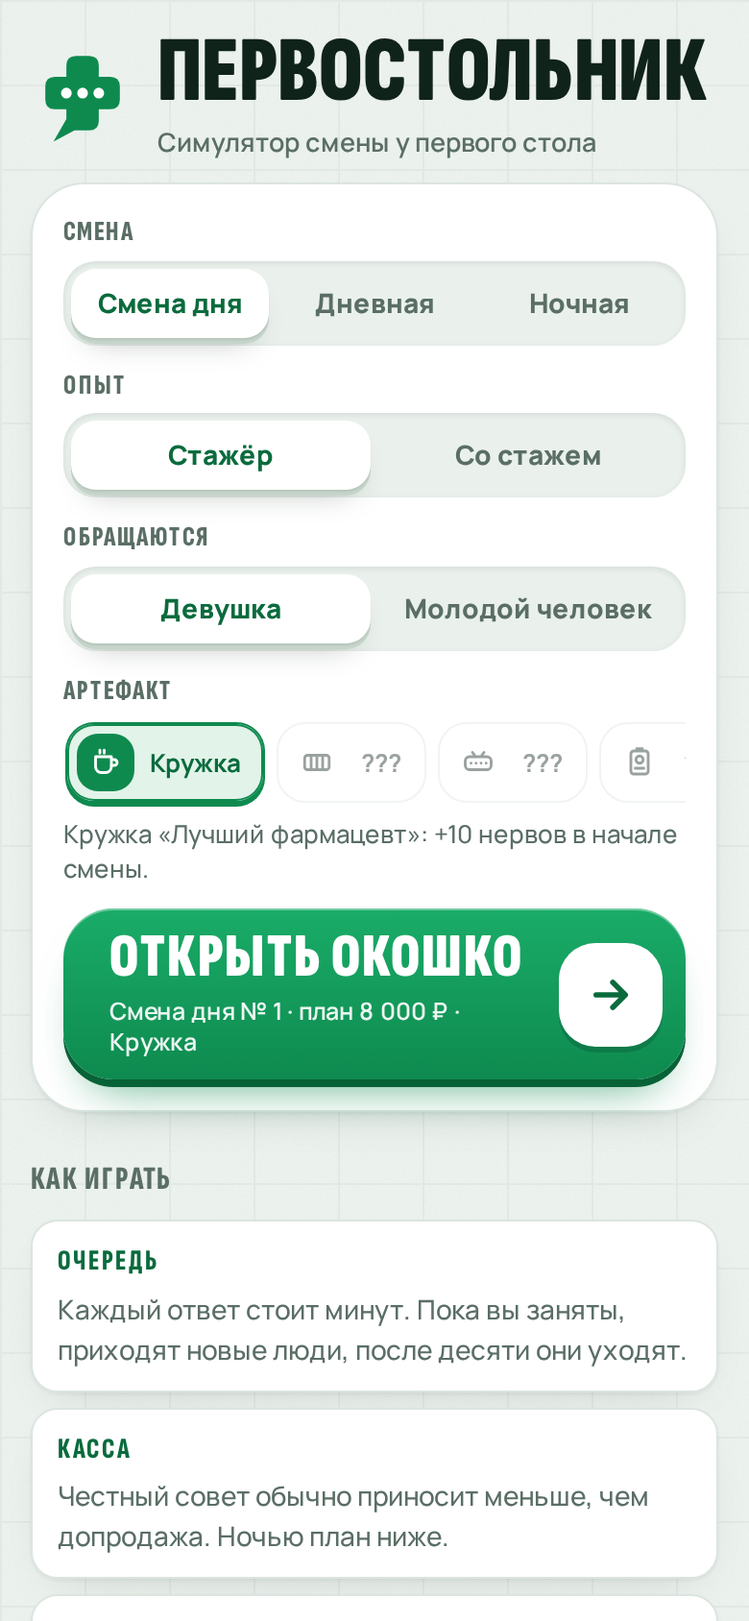
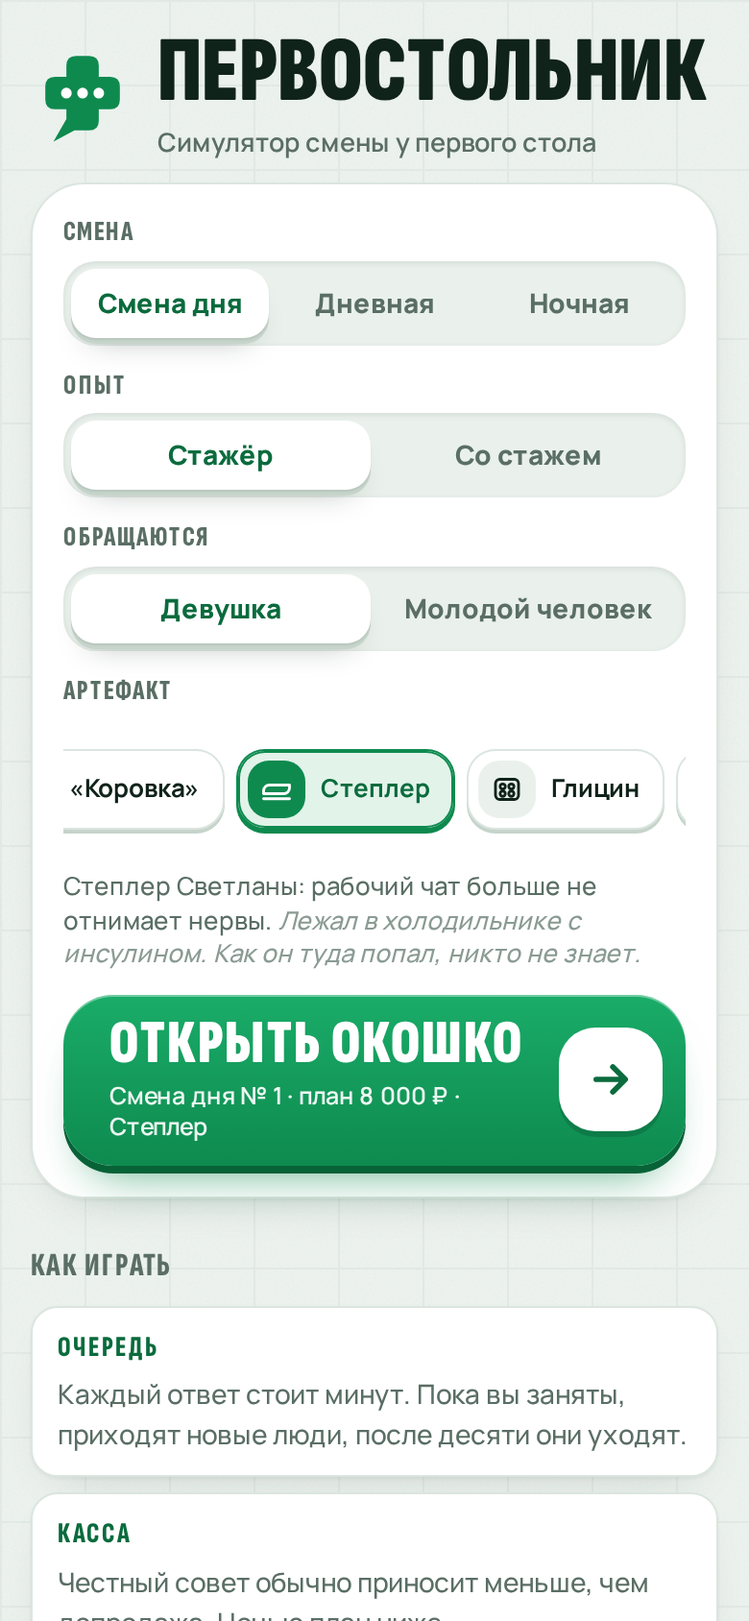
Артефакты: 21 предмет, находки во время смены
Новые предметы открываются после конкретных ситуаций и дают эффекты
на ходу: «Коровка» от Валентины Петровны, степлер Светланы, касса «Ока»,
портрет заведующей, табличка «Технический перерыв» и другие. Стартовый
экран показывает только найденные предметы, остальные в коллекции.
Исправлено дрожание кнопок при наведении курсора на нижний край.

Claude-Session: https://claude.ai/code/session_014crQB7AYk73cuvScQ2uEae

Changed region(s): [[0.0308, 0.4313, 0.9538, 1.0], [0.8923, 0.7701, 0.9231, 0.8009]]

diff --git a/index.html b/index.html
@@ -485,6 +485,28 @@ body::before{content:""; position:fixed; inset:0; pointer-events:none; z-index:0
 .art:disabled{box-shadow:none}
 .art:disabled svg{background:transparent}
 
+
+/* Артефакты: лор, найденные предметы, лупа */
+.ci i{font-size:12.5px; color:var(--dim); font-style:italic; line-height:1.35}
+.note i{color:var(--dim)}
+.arts{align-items:center}
+.art{white-space:nowrap}
+.art.more{border-style:dashed; color:var(--muted); background:transparent; box-shadow:none}
+.art.more svg{background:transparent}
+.loupe{margin-left:auto; font:700 11px/1 var(--f-body); color:#2f64d8; background:#e8effd; padding:4px 7px; border-radius:999px; align-self:center; white-space:nowrap}
+.found{display:grid; gap:8px; width:100%; max-width:560px; margin:0 auto; text-align:left}
+.found-i{display:flex; gap:12px; align-items:flex-start; padding:12px 14px; border-radius:18px; background:var(--yellow-soft); border:1px dashed var(--yellow)}
+.found-i svg{width:42px; height:42px; padding:9px; border-radius:14px; background:var(--card); stroke:var(--green-dark); fill:none; stroke-width:1.8; stroke-linecap:round; stroke-linejoin:round; flex:none; box-sizing:border-box; box-shadow:0 2px 0 var(--key-line)}
+.found-i b{display:block; font:800 21px/1.05 var(--f-display); letter-spacing:.01em}
+.found-i span{display:block; font-size:14px; font-weight:500; margin-top:4px}
+.found-i em{display:block; font:700 12.5px/1.35 var(--f-body); font-style:normal; color:var(--green-dark); margin-top:4px}
+
+
+/* Кнопка приподнимается при наведении, но её «зона наведения» остаётся на месте — без дрожания у края */
+.choice,.opt,.pack,.tg,.btn,.art,.hintbtn{position:relative}
+.choice::after,.opt::after,.pack::after,.tg::after,.btn::after,.art::after,.hintbtn::after{content:""; position:absolute; inset:-1px; border-radius:inherit}
+.choice:hover::after,.opt:hover::after,.pack:hover::after,.tg:hover::after,.btn:hover::after,.art:hover::after,.hintbtn:hover::after{transform:translateY(2px)}
+
 @media (prefers-reduced-motion: reduce){
   *,*::before,*::after{animation:none !important; transition:none !important}
 }
@@ -1308,20 +1330,47 @@ const ICON = {
   calc:'<svg viewBox="0 0 24 24" aria-hidden="true"><rect x="5" y="3" width="14" height="18" rx="2"/><path d="M8 7h8"/><path d="M8.5 12h.01M12 12h.01M15.5 12h.01M8.5 16h.01M12 16h.01M15.5 16h.01"/></svg>',
   scanner2:'<svg viewBox="0 0 24 24" aria-hidden="true"><path d="M4 8V5h3M17 5h3v3M20 16v3h-3M7 19H4v-3"/><path d="M4 12h16"/></svg>',
   thermos:'<svg viewBox="0 0 24 24" aria-hidden="true"><rect x="8" y="6" width="8" height="15" rx="2"/><path d="M9 3h6v3H9z"/><path d="M8 11h8"/></svg>',
-  mashk:'<svg viewBox="0 0 24 24" aria-hidden="true"><path d="M5 4.5A1.5 1.5 0 0 1 6.5 3H19v15H6.5A1.5 1.5 0 0 0 5 19.5z"/><path d="M5 19.5A1.5 1.5 0 0 0 6.5 21H19"/><path d="M9 7.5h6M9 11h4"/></svg>'
+  mashk:'<svg viewBox="0 0 24 24" aria-hidden="true"><path d="M5 4.5A1.5 1.5 0 0 1 6.5 3H19v15H6.5A1.5 1.5 0 0 0 5 19.5z"/><path d="M5 19.5A1.5 1.5 0 0 0 6.5 21H19"/><path d="M9 7.5h6M9 11h4"/></svg>',
+  korovka:'<svg viewBox="0 0 24 24" aria-hidden="true"><path d="M8 9L4 6v12l4-3"/><path d="M16 9l4-3v12l-4-3"/><rect x="8" y="8" width="8" height="8" rx="2"/></svg>',
+  stapler:'<svg viewBox="0 0 24 24" aria-hidden="true"><path d="M3 15h14a4 4 0 0 0 4-4V9H7a4 4 0 0 0-4 4z"/><path d="M3 18.5h18"/></svg>',
+  portrait:'<svg viewBox="0 0 24 24" aria-hidden="true"><rect x="5" y="3" width="14" height="18" rx="1.5"/><circle cx="12" cy="10" r="2.6"/><path d="M8 17c.8-2.2 2.2-3.2 4-3.2s3.2 1 4 3.2"/></svg>',
+  glycine:'<svg viewBox="0 0 24 24" aria-hidden="true"><rect x="4" y="5" width="16" height="14" rx="3"/><circle cx="9" cy="10" r="1.8"/><circle cx="15" cy="10" r="1.8"/><circle cx="9" cy="15" r="1.8"/><circle cx="15" cy="15" r="1.8"/></svg>',
+  sabo:'<svg viewBox="0 0 24 24" aria-hidden="true"><path d="M3 16c0-3 2-5 5-6l3-3h4c3 0 6 3 6 7v2H3z"/><path d="M3 19h18"/><path d="M13 10.5h.01M16 10.5h.01"/></svg>',
+  sign:'<svg viewBox="0 0 24 24" aria-hidden="true"><path d="M9 7l3-4 3 4"/><rect x="4" y="7" width="16" height="10" rx="1.5"/><path d="M8 12h8"/></svg>',
+  bahily:'<svg viewBox="0 0 24 24" aria-hidden="true"><path d="M4 15c0-4 3-8 8-8 3 0 4 2 5 4l3 1v4H4z"/><path d="M4 18.5h16"/><path d="M8 7.5c1 1 3 1 4 0"/></svg>',
+  oka:'<svg viewBox="0 0 24 24" aria-hidden="true"><rect x="4" y="11" width="16" height="9" rx="1.5"/><path d="M7 11V5h10v6"/><path d="M9 8h6"/><path d="M8 15h.01M12 15h.01M16 15h.01"/></svg>',
+  loupe:'<svg viewBox="0 0 24 24" aria-hidden="true"><circle cx="10" cy="10" r="6"/><path d="M14.5 14.5L20 20"/></svg>',
+  headset:'<svg viewBox="0 0 24 24" aria-hidden="true"><path d="M4 14v-2a8 8 0 0 1 16 0v2"/><rect x="3" y="13" width="4" height="6" rx="1.5"/><rect x="17" y="13" width="4" height="6" rx="1.5"/><path d="M19 19c0 1.5-2 2-5 2"/></svg>',
+  nmo:'<svg viewBox="0 0 24 24" aria-hidden="true"><rect x="3" y="4" width="18" height="13" rx="1.5"/><path d="M7 8h10M7 11h5"/><circle cx="16" cy="15" r="2.8"/><path d="M14.6 17.5L14 21.5l2-1 2 1-.6-4"/></svg>',
+  ficus:'<svg viewBox="0 0 24 24" aria-hidden="true"><path d="M8 21h8l-1-6H9z"/><path d="M12 15V9"/><path d="M12 11c-3 0-5-2-5-5 3 0 5 2 5 5z"/><path d="M12 9c0-3 2-5 5-5 0 3-2 5-5 5z"/></svg>',
+  lock:'<svg viewBox="0 0 24 24" aria-hidden="true"><rect x="5" y="11" width="14" height="10" rx="2"/><path d="M8 11V8a4 4 0 0 1 8 0v3"/></svg>'
 };
+const has = (m, id) => m.arts.indexOf(id) >= 0;
 const ARTS = [
-  {id:'mug', name:'Кружка «Лучший фармацевт»', short:'Кружка', desc:'+10 нервов в начале смены.', how:'Есть с самого начала.', ok:m => true},
-  {id:'hematogen', name:'Гематоген в кармане', short:'Гематоген', desc:'Обед и ночной перекус дают на 10 нервов больше.', how:'Сыграйте одну смену.', ok:m => m.shifts >= 1},
-  {id:'mat', name:'Ортопедический коврик', short:'Коврик', desc:'Очередь давит на нервы вдвое слабее.', how:'Сыграйте две смены.', ok:m => m.shifts >= 2},
-  {id:'oldbadge', name:'Старый бейдж «Стажёр»', short:'Бейдж', desc:'Первую потерю доверия за смену покупатели прощают.', how:'Встретьте 10 типажей из бестиария.', ok:m => m.seen >= 10},
-  {id:'pen', name:'Ручка медпреда', short:'Ручка', desc:'+4 секунды на почерк врача.', how:'Значок «Каллиграф» или 4 смены.', ok:m => m.badges.indexOf('calligraph') >= 0 || m.shifts >= 4},
-  {id:'calc', name:'Калькулятор с большими кнопками', short:'Калькулятор', desc:'Цена за штуку видна в аналогах даже в режиме «Со стажем».', how:'Значок «Экономист» или 5 смен.', ok:m => m.badges.indexOf('economist') >= 0 || m.shifts >= 5},
-  {id:'scanner2', name:'Второй сканер', short:'Сканер', desc:'+1 секунда на каждого покупателя в час пик.', how:'Значок «Руки-молнии» или 6 смен.', ok:m => m.badges.indexOf('lightning') >= 0 || m.shifts >= 6},
-  {id:'thermos', name:'Термос с чаем', short:'Термос', desc:'Ночью нервы тратятся на треть медленнее.', how:'Значок «Сова»: закройте ночную смену.', ok:m => m.badges.indexOf('owl') >= 0},
-  {id:'mashk', name:'Справочник Машковского', short:'Машковский', desc:'Один раз за смену подсказывает ответ по правилам.', how:'Значок «Эксперт рецептуры» или 8 смен.', ok:m => m.badges.indexOf('expert') >= 0 || m.shifts >= 8}
+  {id:'mug', name:'Кружка «Лучший фармацевт»', short:'Кружка', desc:'+10 нервов в начале смены.', lore:'Подарок коллектива на 8 Марта. У всех такая же.', how:'Есть с самого начала.', ok:m => true},
+  {id:'hematogen', name:'Гематоген в кармане', short:'Гематоген', desc:'Обед и ночной перекус дают на 10 нервов больше.', lore:'Обед, ужин и стратегический запас. Срок годности проверен лично.', how:'Сыграйте одну смену.', ok:m => m.shifts >= 1},
+  {id:'mat', name:'Ортопедический коврик', short:'Коврик', desc:'Очередь давит на нервы вдвое слабее.', lore:'Куплен за свои. Лучшая инвестиция за пять лет стажа.', how:'Сыграйте две смены.', ok:m => m.shifts >= 2},
+  {id:'korovka', name:'Конфета «Коровка» от Валентины Петровны', short:'«Коровка»', desc:'+2 доверия за каждого пожилого покупателя.', lore:'Хранится в кармане халата с понедельника. Съесть нельзя, выбросить тоже.', how:'Правильно помогите Валентине Петровне с «белыми круглыми».', found:'Валентина Петровна оставила вам конфету «Коровка». Теперь пенсионеры доверяют вам чуть больше.', ok:m => has(m, 'korovka')},
+  {id:'stapler', name:'Степлер Светланы', short:'Степлер', desc:'Рабочий чат больше не отнимает нервы.', lore:'Лежал в холодильнике с инсулином. Как он туда попал, никто не знает.', how:'Доработайте смену до вопроса Светланы про степлер.', found:'Вы нашли степлер Светланы. Он лежал в холодильнике с инсулином.', ok:m => has(m, 'stapler')},
+  {id:'glycine', name:'Глицин в кармане', short:'Глицин', desc:'Кажется, что нервы тратятся меньше. На самом деле нет.', lore:'Доказательная база скромная, но вы в него верите.', how:'Встретьте студента с сопроматом.', found:'Студент Тимур забыл на кассе пачку глицина. Теперь она ваша.', ok:m => has(m, 'glycine')},
+  {id:'oka', name:'Касса «Ока» из подсобки', short:'«Ока»', desc:'Не зависает на ОФД и всегда даёт сдачу: касса и мелочь больше не бьют по нервам.', lore:'Старше половины коллектива. ОФД у неё нет, поэтому зависать нечему.', how:'Переживите зависание кассы на ОФД.', found:'Пока касса висела на ОФД, из подсобки достали старую «Оку». Работает.', ok:m => has(m, 'oka')},
+  {id:'headset', name:'Гарнитура', short:'Гарнитура', desc:'Звонки «а у вас есть…?» не тратят нервы и добавляют доверия.', lore:'Одно ухо для покупателя, второе для телефона. Голова одна.', how:'Ответьте на звонок «а у вас есть…?».', found:'После очередного звонка «а у вас есть…?» сеть выдала вам гарнитуру.', ok:m => has(m, 'headset')},
+  {id:'portrait', name:'Портрет заведующей в рамке', short:'Портрет', desc:'Риск от нарушений на треть ниже, но каждое спорное решение стоит 2 нерва.', lore:'Висит над кассой. Взгляд достаёт из любого угла аптеки.', how:'Встретьте заведующую с планом по БАДам.', found:'Тамара Викторовна подарила коллективу свой портрет в рамке. Повесили над кассой.', ok:m => has(m, 'portrait')},
+  {id:'sign', name:'Табличка «Технический перерыв 15 минут»', short:'Табличка', desc:'Один раз за смену: очередь −4, нервы +6, доверие −3.', lore:'Висит на окошке. Очередь делает вид, что её не видит.', how:'Доведите очередь до восьми человек.', found:'В подсобке нашлась табличка «Технический перерыв». Очередь пока не догадывается.', ok:m => has(m, 'sign')},
+  {id:'oldbadge', name:'Старый бейдж «Стажёр»', short:'Бейдж', desc:'Первую потерю доверия за смену покупатели прощают.', lore:'Фамилия стёрлась, но стажёров всё равно жалеют.', how:'Встретьте 10 типажей из бестиария.', ok:m => m.seen >= 10},
+  {id:'loupe', name:'Лупа с витрины', short:'Лупа', desc:'Рецепт подсказывает, сколько дней прошло с выписки, а почерк врача читается на букву лучше.', lore:'Продавалась за 190 ₽. Списана как «витринный образец».', how:'Проведите экспертизу рецепта без ошибки.', found:'Вы забрали лупу с витрины. Теперь даты в рецептах видно издалека.', ok:m => has(m, 'loupe') || m.badges.indexOf('expert') >= 0},
+  {id:'bahily', name:'Счастливые бахилы', short:'Бахилы', desc:'Инспектор приходит на 40 % реже.', lore:'Лежат на верхней полке с 2019 года. Проверка ни разу не приходила. Совпадение?', how:'Переживите визит инспектора.', found:'Инспектор ушёл, а его бахилы остались. Теперь это талисман.', ok:m => has(m, 'bahily')},
+  {id:'sabo', name:'Сабо с дырочками', short:'Сабо', desc:'+1 нерв за каждый шаг смены: ноги не гудят.', lore:'Двенадцать часов на ногах. Сабо знают, каково это.', how:'Закройте ночную смену или согласитесь на вторую подряд.', found:'Вы наконец купили сабо с дырочками. Ноги говорят спасибо.', ok:m => has(m, 'sabo')},
+  {id:'nmo', name:'Сертификат на 144 балла НМО', short:'Сертификат', desc:'+5 доверия в начале смены, а в режиме «Со стажем» справки открыты.', lore:'Набран за двадцать вебинаров и одну бессонную ночь перед аккредитацией.', how:'Закройте смену без единого нарушения.', found:'Смена без нарушений, и баллы НМО сложились в сертификат.', ok:m => has(m, 'nmo')},
+  {id:'pen', name:'Ручка медпреда', short:'Ручка', desc:'+4 секунды на почерк врача.', lore:'С логотипом препарата, которого давно нет в продаже. Пишет лучше всех.', how:'Значок «Каллиграф» или 4 смены.', ok:m => m.badges.indexOf('calligraph') >= 0 || m.shifts >= 4},
+  {id:'calc', name:'Калькулятор с большими кнопками', short:'Калькулятор', desc:'Цена за штуку видна в аналогах даже в режиме «Со стажем».', lore:'Кнопка «7» западает с 2018 года. Считаем без семёрок.', how:'Значок «Экономист» или 5 смен.', ok:m => m.badges.indexOf('economist') >= 0 || m.shifts >= 5},
+  {id:'ficus', name:'Фикус с первого стола', short:'Фикус', desc:'Каждые три шага +3 нерва: он просто рядом.', lore:'Пережил три ремонта и пять заведующих. Поливает только ночная смена.', how:'Отработайте пять смен.', ok:m => m.shifts >= 5},
+  {id:'scanner2', name:'Второй сканер', short:'Сканер', desc:'+1 секунда на каждого покупателя в час пик.', lore:'Пищит на полтона ниже первого. Вы различаете их на слух.', how:'Значок «Руки-молнии» или 6 смен.', ok:m => m.badges.indexOf('lightning') >= 0 || m.shifts >= 6},
+  {id:'thermos', name:'Термос с чаем', short:'Термос', desc:'Ночью нервы тратятся на треть медленнее.', lore:'Чай с чабрецом. То ли от бабушки, то ли от благодарной покупательницы.', how:'Значок «Сова»: закройте ночную смену.', ok:m => m.badges.indexOf('owl') >= 0},
+  {id:'mashk', name:'Справочник Машковского', short:'Машковский', desc:'Один раз за смену подсказывает ответ по правилам.', lore:'Издание 2005 года. Сорок закладок, и ни одной случайной.', how:'Значок «Эксперт рецептуры» или 8 смен.', ok:m => m.badges.indexOf('expert') >= 0 || m.shifts >= 8}
 ];
-function metaNow(){ return {shifts:(store('pervostolnik3-meta', {shifts:0}).shifts || 0), badges:store('pervostolnik3-badges', []), seen:Object.keys(store('pervostolnik3-bestiary', {})).length}; }
+const SENIORS = ['davlenie','refund','coins','tv','insulin','reader','biography','discount','soundalike','expired','m-script'];
+function metaNow(){ return {shifts:(store('pervostolnik3-meta', {shifts:0}).shifts || 0), badges:store('pervostolnik3-badges', []), seen:Object.keys(store('pervostolnik3-bestiary', {})).length, arts:store('pervostolnik3-arts', [])}; }
 function artOk(id, meta){ const a = ARTS.find(x => x.id === id); return !!a && a.ok(meta || metaNow()); }
 function artOf(id){ return ARTS.find(x => x.id === id) || ARTS[0]; }
 function lamps(){
@@ -1333,7 +1382,7 @@ function lamps(){
     if (id === 'm-accept') st.mdlp = 'warn';
     if (id === 'fridge') st.temp = 'bad';
   }
-  return '<span class="lamp ' + st.ofd + '">ОФД</span><span class="lamp ' + st.mdlp + '">МДЛП</span><span class="lamp ' + st.temp + '">' + (st.temp === 'bad' ? '+9°' : '+5°') + '</span>';
+  return '<span class="lamp ' + (S && S.art === 'oka' ? 'ok' : st.ofd) + '">' + (S && S.art === 'oka' ? 'ОКА' : 'ОФД') + '</span><span class="lamp ' + st.mdlp + '">МДЛП</span><span class="lamp ' + st.temp + '">' + (st.temp === 'bad' ? '+9°' : '+5°') + '</span>';
 }
 function qrBlock(){
   const n = 21, c = 3;
@@ -1471,7 +1520,11 @@ const CHAT = [
   ['ТВ','Тамара Викторовна','{G}, по итогам месяца мы 47-е из 48 аптек. Спасибо 48-й'],
   ['СВ','Светлана','Почему принтер печатает только половину чека? Вторая половина в отпуске?'],
   ['ТВ','Тамара Викторовна','Планограмма обновилась. Гематоген теперь на уровне глаз ребёнка'],
-  ['СВ','Светлана','Я на пять минут в подсобку, морально подготовиться к вечеру']
+  ['СВ','Светлана','Я на пять минут в подсобку, морально подготовиться к вечеру'],
+  ['ТВ','Тамара Викторовна','Кто оставил глицин на кассе? Это не для покупателей, это моё'],
+  ['ТВ','Тамара Викторовна','Медпред принёс ручки. Берём по одной, это не гематоген'],
+  ['ТВ','Тамара Викторовна','{G}, завтра фото на доску почёта. Халаты погладить, фикус полить'],
+  ['СВ','Светлана','Кто-нибудь видел мою кружку «Лучший фармацевт»? А, у всех такая']
 ];
 
 /* ---------- Бестиарий и значки ---------- */
@@ -1526,9 +1579,10 @@ function newShift(kind){
     queue:night ? 1 : START.queue, qAcc:0, left:0, maxQueue:night ? 1 : START.queue,
     fines:0, log:[], inspected:false, over:null, last:null, saved:false,
     addrCount:0, met:[], earned:[], pay:[], jz:{}, stats:{hand:[0,0], rx:[0,0], analog:[0,0], rush:null, accept:null},
-    newMet:[], newBadges:[], newArts:[], art:artOk(PREFS.art) ? PREFS.art : 'mug', hints:1, hintAt:-1, forgiven:false
+    newMet:[], newBadges:[], newArts:[], art:artOk(PREFS.art) ? PREFS.art : 'mug', hints:1, hintAt:-1, forgiven:false, signUsed:false, once:{}
   };
   if (S.art === 'mug') S.nerves = clamp(S.nerves + 10);
+  if (S.art === 'nmo') S.trust = clamp(S.trust + 5);
   S.pre = deck.map(id => isMini(id) ? initMini(id.slice(2)) : shuffle(CARDS[id].choices.map((_, i) => i)));
   RC = Math.random;
   enterStep();
@@ -1557,7 +1611,7 @@ function initMini(k){
   if (k === 'hand'){
     const set = pick(HAND);
     const ans = pick(set);
-    const words = scrawl(ans[0], md.keep, 'big');
+    const words = scrawl(ans[0], md.keep + (S && S.art === 'loupe' ? 1 : 0), 'big');
     return {k:k, ans:ans, opts:shuffle(set), html:'<span class="hand">Rp.: Tab.</span> ' + words, dose:scrawl(pick(['0,05','0,02','0,1','0,005']), 9, 'sm'), n:scrawl('D.t.d. N 30', 1, 'sm'), sig:scrawl('S. по 1 т. утром', 2, 'sm'), t0:0, T:md.handT + (S && S.art === 'pen' ? 4 : 0)};
   }
   if (k === 'rx'){
@@ -1642,9 +1696,29 @@ function finish(res){
   if (S.art === 'oldbadge' && dt < 0 && !S.forgiven){ S.forgiven = true; artNotes.push('Старый бейдж «Стажёр»: покупатель простил, доверие не упало (было бы ' + dt + ').'); dt = 0; }
   if (S.art === 'thermos' && S.time === 'night' && dn < 0){ const soft = Math.round(dn * 0.67); if (soft !== dn) artNotes.push('Термос с чаем: нервы ' + soft + ' вместо ' + dn + '.'); dn = soft; }
   if (S.art === 'hematogen' && (cur() === 'lunch' || cur() === 'nightsnack') && dn > 0){ dn += 10; artNotes.push('Гематоген в кармане: ещё +10 нервов.'); }
+  let dr = d.r || 0, dq = d.q || 0;
+  const id0 = cur(), q0 = res.q;
+  const once = key => { if (S.once[key]) return false; S.once[key] = true; return true; };
+  if (S.art === 'portrait'){
+    if (dr > 0){ const lo = Math.round(dr * 0.67); if (lo !== dr) artNotes.push('Портрет заведующей: риск +' + lo + ' вместо +' + dr + '.'); dr = lo; }
+    if (q0 === 'meh'){ dn -= 2; artNotes.push('Портрет заведующей смотрит с укором: −2 нерва за спорное решение.'); }
+  }
+  if (S.art === 'korovka' && SENIORS.indexOf(id0) >= 0){ dt += 2; artNotes.push('«Коровка» от Валентины Петровны: пожилые покупатели доверяют вам чуть больше, +2.'); }
+  if (S.art === 'sabo'){ dn += 1; if (once('sabo')) artNotes.push('Сабо с дырочками: +1 нерв за каждый шаг, ноги не гудят.'); }
+  if (S.art === 'ficus' && S.step % 3 === 2){ dn += 3; artNotes.push('Фикус с первого стола: +3 нерва. Он просто рядом.'); }
+  if (S.art === 'headset' && id0 === 'phone'){ if (dn < 0) dn = 0; dt += 3; artNotes.push('Гарнитура: звонок не стоил нервов, доверие +3.'); }
+  if (S.art === 'oka'){
+    if (id0 === 'queue'){ dq -= 2; dn += 4; artNotes.push('Касса «Ока» не зависает: очередь −2, нервы +4.'); }
+    if ((id0 === 'fivethousand' || id0 === 'coins' || id0 === 'change') && dn < 0){ dn = 0; artNotes.push('В «Оке» всегда есть мелочь: нервы не пострадали.'); }
+  }
+  if (S.chatAt[S.step]){
+    if (S.art === 'stapler'){ if (once('stapler')) artNotes.push('Степлер Светланы: рабочий чат больше не отнимает нервы.'); }
+    else { dn -= 2; artNotes.push('Сообщение в рабочем чате: −2 нерва.'); }
+  }
+  if (S.art === 'glycine' && dn < 0 && once('glycine')) artNotes.push('Глицин в кармане: кажется, стало легче. Показатели при этом не изменились.');
   S.trust = clamp(S.trust + dt);
   S.nerves = clamp(S.nerves + dn);
-  S.risk = clamp(S.risk + (d.r || 0));
+  S.risk = clamp(S.risk + dr);
   if (res.fine) S.fines += res.fine;
   if (res.fine === 0 && cur() === 'inspection') earn('survived');
   if (res.pay) S.pay.push(res.pay);
@@ -1653,7 +1727,7 @@ function finish(res){
   S.qAcc += (res.m || 0) / (S.time === 'night' ? 5 : 3);
   const arrived = Math.floor(S.qAcc);
   S.qAcc -= arrived;
-  S.queue = Math.max(0, S.queue + arrived - (res.served == null ? 1 : res.served) + (d.q || 0));
+  S.queue = Math.max(0, S.queue + arrived - (res.served == null ? 1 : res.served) + dq);
   let left = 0;
   if (S.queue > 10){ left = S.queue - 10; S.queue = 10; S.left += left; S.trust = clamp(S.trust - 2 * left); }
   if (S.queue >= 6){ const qp = S.queue - 5, eff = S.art === 'mat' ? Math.ceil(qp / 2) : qp; if (eff !== qp) artNotes.push('Ортопедический коврик: очередь отняла ' + eff + ' нервов вместо ' + qp + '.'); S.nerves = clamp(S.nerves - eff); }
@@ -1666,7 +1740,7 @@ function finish(res){
   else if (S.trust <= 0) S.over = 'trust';
   else if (S.nerves <= 0) S.over = 'nerves';
   if (!S.over && !S.inspected && cur() !== 'inspection' && S.risk >= 35){
-    const p = S.risk >= 80 ? 1 : (S.risk - 25) / 100;
+    const p = (S.risk >= 80 ? 1 : (S.risk - 25) / 100) * (S.art === 'bahily' ? 0.6 : 1);
     if (Math.random() < p){ S.inspected = true; S.deck.splice(S.step + 1, 0, 'inspection'); S.pre.splice(S.step + 1, 0, null); }
   }
   S.phase = 'result';
@@ -1849,6 +1923,9 @@ function rankOf(){
   if (S.cash >= plan * 1.3 && bad >= 4) return {title:'Совесть в минусе, касса в плюсе', text:'Выручка отличная, нарушений хватит на отдельную проверку. Региональный менеджер вас обожает, юрист сети боится.'};
   if (planOk && S.trust < 45) return {title:'Машина допродаж', text:'Региональный менеджер ставит вас в пример. Покупатели ставят одну звезду. Все при деле.'};
   if (S.left >= 5) return {title:'Хранитель очереди', text:'Консультации образцовые, но ' + S.left + ' ' + plural(S.left, ['человек','человека','человек']) + ' ушли, не дождавшись. Каждого вы бы вылечили, если бы успели.'};
+  const st = S.stats;
+  if (st.hand[1] && st.rx[1] && st.analog[1] && st.hand[0] === st.hand[1] && st.rx[0] === st.rx[1] && st.analog[0] === st.analog[1]) return {title:'Ходячий Машковский', text:'Почерк прочитан, рецепт проверен, аналог подобран, и ни одной ошибки. Коллеги звонят вам, а не в справочную.'};
+  if (S.cash < plan * 0.35 && S.trust >= 60) return {title:'Бессребреник первого стола', text:'Всем помогли, почти ничего не продали. Региональный менеджер уже пишет вам в личку.'};
   if (S.trust >= 70 && S.risk < 40) return {title:'Фармацевт, к которому ходят по имени', text:'План не добран, зато в очереди спрашивают: «А этот фармацевт сегодня работает?» Лучшая реклама аптеки.'};
   if (S.nerves <= 20) return {title:'Выгорание в прямом эфире', text:'Смена закрыта, но по дороге домой вы спрашиваете кондуктора: «Что-нибудь ещё?» Возьмите выходной.'};
   return {title:'Крепкий первостольник', text:'Без подвигов и без катастроф. Касса сошлась, совесть почти тоже.'};
@@ -1882,6 +1959,21 @@ function closeShift(){
   if (!best || sc > best.score){ S.newBest = !!best; save('pervostolnik3-best', {score:sc, title:rankOf().title, mode:S.mode}); }
   if (S.kind === 'daily' && !S.practice) save('pervostolnik3-daily', {date:S.day, score:sc, title:rankOf().title, grid:emojiGrid(), text:resultText()});
   const meta = store('pervostolnik3-meta', {shifts:0}); meta.shifts = (meta.shifts || 0) + 1; save('pervostolnik3-meta', meta);
+  const ev = [];
+  if (S.log.some(e => e.who === 'Валентина Петровна' && e.q === 'ok')) ev.push('korovka');
+  if (Object.keys(S.chatAt).some(st => +st <= S.step && /степлер/.test(S.chatAt[st][2]))) ev.push('stapler');
+  if (S.met.indexOf('student') >= 0) ev.push('glycine');
+  if (S.met.indexOf('queue') >= 0) ev.push('oka');
+  if (S.met.indexOf('phone') >= 0) ev.push('headset');
+  if (S.met.indexOf('boss') >= 0 || S.met.indexOf('inventory') >= 0) ev.push('portrait');
+  if (S.maxQueue >= 8) ev.push('sign');
+  if (S.stats.rx[0] >= 1) ev.push('loupe');
+  if (S.met.indexOf('inspection') >= 0) ev.push('bahily');
+  if ((S.time === 'night' && !S.over) || S.log.some(e => e.label === 'Согласиться на сутки')) ev.push('sabo');
+  if (!S.over && !bad) ev.push('nmo');
+  const owned = store('pervostolnik3-arts', []);
+  ev.forEach(id => { if (owned.indexOf(id) < 0) owned.push(id); });
+  save('pervostolnik3-arts', owned);
   const metaAfter = metaNow();
   S.newArts = ARTS.filter(a => !a.ok(metaBefore) && a.ok(metaAfter)).map(a => a.id);
 }
@@ -1920,10 +2012,16 @@ function meters(d){
     '<section class="queue" aria-label="Очередь: ' + q + ' ' + plural(q, ['человек','человека','человек']) + '"><span class="lab">Очередь</span><span class="ppl ' + qcls + '">' + ppl + '</span><span><b>' + q + '</b> ' + plural(q, ['человек','человека','человек']) + (S.left ? ' · <span class="left">ушли: ' + S.left + '</span>' : '') + '</span></section>';
 }
 
+function loupeDays(ds){
+  const p = ds.split('.'), d = new Date(+p[2], +p[1] - 1, +p[0]);
+  const t = new Date(today.getFullYear(), today.getMonth(), today.getDate());
+  const n = Math.round((t - d) / 864e5);
+  return n < 0 ? 'лупа: дата в будущем' : 'лупа: прошло ' + n + ' ' + plural(n, ['день','дня','дней']);
+}
 function chatBlock(){
   const c = S.chatAt[S.step];
   if (!c || S.phase !== 'play') return '';
-  return '<div class="chat" role="note"><div class="ic" aria-hidden="true">' + c[0] + '</div><div><div class="meta"><b>' + c[1] + '</b>Рабочий чат · ' + clockAt(S.step) + '</div><div class="msg">' + fill(c[2]) + '</div></div></div>';
+  return '<div class="chat" role="note"><div class="ic" aria-hidden="true">' + c[0] + '</div><div><div class="meta"><b>' + c[1] + '</b>Рабочий чат · ' + clockAt(S.step) + '</div><div class="msg">' + fill(S.art === 'stapler' && /степлер/.test(c[2]) ? 'Степлер нашёлся, спасибо!!! Только кто положил его в холодильник?' : c[2]) + '</div></div></div>';
 }
 
 function whoHtml(o){
@@ -1942,7 +2040,7 @@ function slip(){
   const lines = rows.length ? rows.map(r => '<div class="r-line"><span>' + r[0] + '</span><span class="v ' + (r[2] ? 'up' : 'down') + '">' + r[1] + '</span></div>').join('') : '<div class="r-line"><span>Показатели</span><span class="v">без изменений</span></div>';
   const txt = L.fact || L.note;
   const lab = L.fact ? 'СПРАВКА' : 'ИЗ ЖИЗНИ';
-  const info = !txt ? '' : (M().facts || !L.fact) ? '<div class="r-fact"><b>' + lab + '</b>' + txt + '</div>' : '<details class="r-fact"><summary>' + lab + '</summary>' + txt + '</details>';
+  const info = !txt ? '' : (M().facts || S.art === 'nmo' || !L.fact) ? '<div class="r-fact"><b>' + lab + '</b>' + txt + '</div>' : '<details class="r-fact"><summary>' + lab + '</summary>' + txt + '</details>';
   const list = L.list && L.list.length ? '<ul class="r-list">' + L.list.map(x => '<li>' + x + '</li>').join('') + '</ul>' : '';
   const insp = S.deck[S.step + 1] === 'inspection' && cur() !== 'inspection' && !S.over ? '<hr class="r-hr"><div class="r-alert">В ДВЕРЯХ ЧЕЛОВЕК С ПАПКОЙ</div>' : '';
   const alert = S.over ? '<hr class="r-hr"><div class="r-alert">СМЕНА ПРЕРВАНА</div>' : '';
@@ -1975,7 +2073,7 @@ function rxView(mi){
     '<p class="hint">Отметьте поля с ошибками, если они есть, и решите: отпустить или отказать. <span class="today">Сегодня ' + fmtDate(today) + '</span></p>' +
     '<div class="rx"><div class="rx-top"><span>Министерство здравоохранения Российской Федерации</span><span>Форма № 107-1/у</span></div>' +
     '<div class="rx-title">РЕЦЕПТ</div>' +
-    f('date', 'Дата оформления', '<b class="hand">' + mi.date + '</b>') +
+    f('date', 'Дата оформления', '<b class="hand">' + mi.date + '</b>' + (S.art === 'loupe' ? '<span class="loupe">' + loupeDays(mi.date) + '</span>' : '')) +
     f('patient', 'Ф. И. О. пациента', mi.has.noname ? blank : '<b class="hand">' + mi.pat[0] + '</b>') +
     f('dob', 'Дата рождения', mi.has.nodob ? blank : '<b class="hand">' + mi.pat[1] + '</b>') +
     f('doctor', 'Ф. И. О. врача', '<b class="hand">' + mi.doc[0] + '</b>') +
@@ -2025,7 +2123,7 @@ function startSubText(){
   const planNow = Math.round(MODES[PREFS.mode].plan * (play === 'night' ? 0.6 : 1));
   return (play === 'daily' ? 'Смена дня № ' + dayNo() + (playedToday ? ' · повтор вне зачёта' : '') : play === 'night' ? 'Ночь 20:00–08:00' : 'День 08:00–20:00') + ' · план ' + nf.format(planNow) + ' ₽ · ' + artOf(PREFS.art).short;
 }
-function artNoteText(){ const a = artOf(PREFS.art); return a.name + ': ' + a.desc.charAt(0).toLowerCase() + a.desc.slice(1); }
+function artNoteText(){ const a = artOf(PREFS.art); return a.name + ': ' + a.desc.charAt(0).toLowerCase() + a.desc.slice(1) + ' <i>' + a.lore + '</i>'; }
 function renderStart(){
   const best = store('pervostolnik3-best', null);
   const seen = store('pervostolnik3-bestiary', {});
@@ -2038,10 +2136,11 @@ function renderStart(){
     const i = Math.max(0, opts.findIndex(o => o[0] === val));
     return '<div class="seg" role="group" style="--n:' + opts.length + '; --i:' + i + '">' + opts.map(o => '<button type="button" data-set="' + name + '" data-val="' + o[0] + '" aria-pressed="' + (val === o[0]) + '">' + o[1] + '</button>').join('') + '</div>';
   };
-  const arts = ARTS.map(a => { const ok = a.ok(meta); return '<button class="art" type="button" data-art="' + a.id + '" aria-pressed="' + (PREFS.art === a.id) + '"' + (ok ? '' : ' disabled title="Откроется: ' + a.how + '"') + '>' + ICON[a.id] + (ok ? a.short : '???') + '</button>'; }).join('');
+  const unlocked = ARTS.filter(a => a.ok(meta)), lockedN = ARTS.length - unlocked.length;
+  const arts = unlocked.map(a => '<button class="art" type="button" data-art="' + a.id + '" aria-pressed="' + (PREFS.art === a.id) + '">' + ICON[a.id] + a.short + '</button>').join('') + (lockedN ? '<button class="art more" type="button" id="artmore">' + ICON.lock + 'Ещё ' + lockedN + '</button>' : '');
   const bx = BESTIARY.map(b => seen[b.id] ? '<div class="ci"><b>' + b.name + '</b><span>' + b.desc + '</span><em>встречено: ' + seen[b.id] + '</em></div>' : '<div class="ci locked"><b>???</b><span>ещё не встречали</span></div>').join('');
   const bd = BADGES.map(b => { const nm = b[0] === 'address' && PREFS.addr === 'm' ? '«Молодой человек» года' : b[1]; return '<div class="ci' + (badges.indexOf(b[0]) >= 0 ? '' : ' locked') + '"><b>' + nm + '</b><span>' + b[2] + '</span></div>'; }).join('');
-  const ad = ARTS.map(a => { const ok = a.ok(meta); return '<div class="ci' + (ok ? '' : ' locked') + '"><b>' + ICON[a.id] + a.name + '</b><span>' + a.desc + '</span>' + (ok ? '' : '<em>' + a.how + '</em>') + '</div>'; }).join('');
+  const ad = ARTS.map(a => { const ok = a.ok(meta); return '<div class="ci' + (ok ? '' : ' locked') + '"><b>' + ICON[a.id] + a.name + '</b><span>' + a.desc + '</span><i>' + a.lore + '</i>' + (ok ? '' : '<em>Как открыть: ' + a.how.charAt(0).toLowerCase() + a.how.slice(1) + '</em>') + '</div>'; }).join('');
   const artCount = ARTS.filter(a => a.ok(meta)).length;
   const arrow = '<svg viewBox="0 0 24 24" aria-hidden="true"><path d="M5 12h14M13 6l6 6-6 6"/></svg>';
   app.innerHTML =
@@ -2065,14 +2164,14 @@ function renderStart(){
         '<div><b>Риск проверки</b><p>Растёт от нарушений. Чем он выше, тем вероятнее придёт инспектор.</p></div>' +
       '</div>' +
       (best ? '<p class="best">Лучшая смена: ' + best.score + ' ' + plural(best.score, ['балл','балла','баллов']) + ' · «' + best.title + '»</p>' : '') +
-      '<details class="coll"><summary>Артефакты <span>' + artCount + ' из ' + ARTS.length + '</span></summary><div class="cgrid">' + ad + '</div></details>' +
+      '<details class="coll" id="artcoll"><summary>Артефакты <span>' + artCount + ' из ' + ARTS.length + '</span></summary><div class="cgrid">' + ad + '</div></details>' +
       '<details class="coll"><summary>Бестиарий покупателей <span>' + Object.keys(seen).length + ' из ' + BESTIARY.length + '</span></summary><div class="cgrid">' + bx + '</div></details>' +
       '<details class="coll"><summary>Значки <span>' + badges.length + ' из ' + BADGES.length + '</span></summary><div class="cgrid">' + bd + '</div></details>' +
       '<textarea id="copybox" readonly hidden aria-label="Текст результата"></textarea>' +
     '</section>' + footNote();
   const refresh = () => {
     const gs = document.getElementById('gosub'); if (gs) gs.textContent = startSubText();
-    const an = document.getElementById('artnote'); if (an) an.textContent = artNoteText();
+    const an = document.getElementById('artnote'); if (an) an.innerHTML = artNoteText();
   };
   document.getElementById('go').addEventListener('click', () => {
     if (PREFS.play === 'daily') newShift('daily');
@@ -2080,6 +2179,8 @@ function renderStart(){
   });
   const ds = document.getElementById('dshare');
   if (ds) ds.addEventListener('click', () => copyText(daily.text, ds));
+  const am = document.getElementById('artmore');
+  if (am) am.addEventListener('click', () => { const dc = document.getElementById('artcoll'); dc.open = true; dc.scrollIntoView({block:'start', behavior: reduce ? 'auto' : 'smooth'}); });
   app.querySelectorAll('[data-set]').forEach(b => b.addEventListener('click', () => {
     PREFS[b.dataset.set] = b.dataset.val; save('pervostolnik3-prefs', PREFS);
     const group = b.parentElement, btns = Array.prototype.slice.call(group.querySelectorAll('button'));
@@ -2115,6 +2216,7 @@ function renderGame(fresh){
       const hinted = S.hintAt === S.step;
       const canHint = S.art === 'mashk' && S.hints > 0 && !hinted && !card.choices.some(c => c.dyn);
       body = (canHint ? '<button class="hintbtn" type="button" id="mashk">' + ICON.mashk + 'Спросить Машковского · 1 раз за смену</button>' : '') +
+        (S.art === 'sign' && !S.signUsed ? '<button class="hintbtn" type="button" id="signbtn">' + ICON.sign + 'Повесить табличку «Технический перерыв» · 1 раз</button>' : '') +
         '<div class="choices" role="group" aria-label="Варианты ответа">' + S.order.map((ci, k) => {
         const ch = card.choices[ci];
         return '<button class="choice' + (hinted && ch.q === 'ok' ? ' okhint' : '') + '" type="button" data-ci="' + ci + '"><kbd>' + (k + 1) + '</kbd><span class="txt">' + ch.label + '</span>' + (ch.m ? '<span class="tchip">' + ch.m + ' мин</span>' : '') + '</button>';
@@ -2139,6 +2241,8 @@ function bind(fresh){
   }
   if (fresh) window.scrollTo({top:0, behavior: reduce ? 'auto' : 'smooth'});
   app.querySelectorAll('.choice').forEach(b => b.addEventListener('click', () => chooseCard(+b.dataset.ci)));
+  const sb = document.getElementById('signbtn');
+  if (sb) sb.addEventListener('click', () => { S.signUsed = true; S.queue = Math.max(0, S.queue - 4); S.nerves = clamp(S.nerves + 6); S.trust = clamp(S.trust - 3); render(); });
   const mk = document.getElementById('mashk');
   if (mk) mk.addEventListener('click', () => { S.hints = 0; S.hintAt = S.step; render(); const f = app.querySelector('.choice.okhint') || app.querySelector('.choice'); if (f) f.focus({preventScroll:true}); });
   const mi = S.mini;
@@ -2215,7 +2319,7 @@ function renderEnd(){
   const newMet = S.newMet.length ? '<p class="hint" style="text-align:center">Новые в бестиарии: ' + S.newMet.map(id => (BESTIARY.find(b => b.id === id) || {name:id}).name).join(', ') + '</p>' : '';
   const jz = [line('Вас назвали ' + addrWord, S.addrCount + ' ' + plural(S.addrCount, ['раз','раза','раз']))].concat(Object.keys(JZLAB).filter(k => S.jz[k]).map(k => line(JZLAB[k], S.jz[k] + ' ' + plural(S.jz[k], ['раз','раза','раз'])))).join('');
   const ps = payslip();
-  const newArts = S.newArts && S.newArts.length ? '<p class="hint newart">' + (S.newArts.length > 1 ? 'Новые артефакты: ' : 'Новый артефакт: ') + S.newArts.map(id => artOf(id).name + ' — ' + artOf(id).desc.charAt(0).toLowerCase() + artOf(id).desc.slice(1, -1)).join('; ') + '. Выберите его перед следующей сменой.</p>' : '';
+  const newArts = S.newArts && S.newArts.length ? '<p class="hint newart">' + (S.newArts.length > 1 ? 'Найдены новые артефакты' : 'Найден новый артефакт') + '</p><div class="found">' + S.newArts.map(id => { const a = artOf(id); return '<div class="found-i">' + ICON[a.id] + '<div><b>' + a.name + '</b><span>' + (a.found || a.lore) + '</span><em>' + a.desc + '</em></div></div>'; }).join('') + '</div>' : '';
   const hasShare = typeof navigator.share === 'function';
   app.innerHTML = header() +
     '<section class="rank"><p class="eyebrow' + (S.over ? ' over' : '') + '">' + (S.over ? 'Смена прервана' : 'Диагноз смены') + '</p><h2>' + r.title + '</h2><p>' + r.text + '</p>' + earned + newArts + newMet + '</section>' +

diff --git a/README.md b/README.md
@@ -43,8 +43,15 @@
   - приёмка: найти в приходе брак.
 - **Смена дня.** Одна и та же смена у всех игроков в течение дня. Результат копируется в чат вместе с цветной сеткой решений.
 - **Ночная смена.** Работа через окошко: таксисты, «жвачку и чек не надо», доширак в три часа ночи.
-- **Артефакты.** Кружка «Лучший фармацевт», ортопедический коврик, ручка медпреда, справочник Машковского и ещё пять предметов. Каждый даёт бонус на смену, а открываются они по ходу игры.
-- **Итог смены.** Диагноз вроде «Святой первого стола» или «Постоянный клиент Росздравнадзора», Z-отчёт и счётчик жизы: сколько раз вас назвали «девушкой» и сколько раз спросили «а подешевле?». Ещё есть расчётный листок с бонусом за БАД и штрафом от тайного покупателя, а также картинка для рабочего чата.
+- **Двадцать один артефакт.** Большинство находится прямо во время смены, после конкретной ситуации:
+  - Валентина Петровна после правильно подобранных «белых круглых» оставит конфету «Коровка» (+2 доверия от каждого пожилого покупателя);
+  - степлер Светланы найдётся в холодильнике с инсулином, и рабочий чат перестанет отнимать нервы;
+  - после зависания кассы на ОФД из подсобки достанут старую «Оку», которая всегда даёт сдачу;
+  - портрет заведующей в рамке снижает риск проверки, но каждое спорное решение стоит нервов;
+  - глицин в кармане ничего не делает, но с ним кажется, что нервы тратятся меньше.
+
+  Ещё в коллекции есть счастливые бахилы, сабо с дырочками, лупа с витрины, табличка «Технический перерыв 15 минут», сертификат на 144 балла НМО, фикус с первого стола и справочник Машковского. У каждого предмета есть эффект на смену и короткая история.
+- **Итог смены.** Диагноз вроде «Святой первого стола», «Ходячий Машковский» или «Постоянный клиент Росздравнадзора», Z-отчёт и счётчик жизы: сколько раз вас назвали «девушкой» и сколько раз спросили «а подешевле?». Ещё есть расчётный листок с бонусом за БАД и штрафом от тайного покупателя, а также картинка для рабочего чата.
 - **Коллекции и режимы.** Бестиарий из почти шестидесяти типажей, значки и два режима: «Стажёр» со справками и «Со стажем» с короткими таймерами без подсказок.
 
 ## Как запустить
@@ -67,7 +74,7 @@
 | Внутренний голос, бонусы и штрафы, счётчик жизы | объекты `THINK`, `PAY`, `JZ` |
 | Сообщения рабочего чата | массивы `CHAT` и `CHAT_NIGHT` |
 | Мини-игры | объект `MINIS`, функции `initMini()` и `…View()` |
-| Артефакты | массив `ARTS`: эффект, условие открытия, иконка в `ICON` |
+| Артефакты | массив `ARTS`: описание, история и условие открытия, иконка в `ICON`; эффекты на ходу — в `finish()`, находки — в `closeShift()` |
 | Порядок смены | `newShift()`: дневная и ночная раскладки |
 | Смена дня | `seeded()` — генератор случайных чисел от даты |
 | Звания, баллы, расчётный листок | `rankOf()`, `score()`, `payslip()` |
